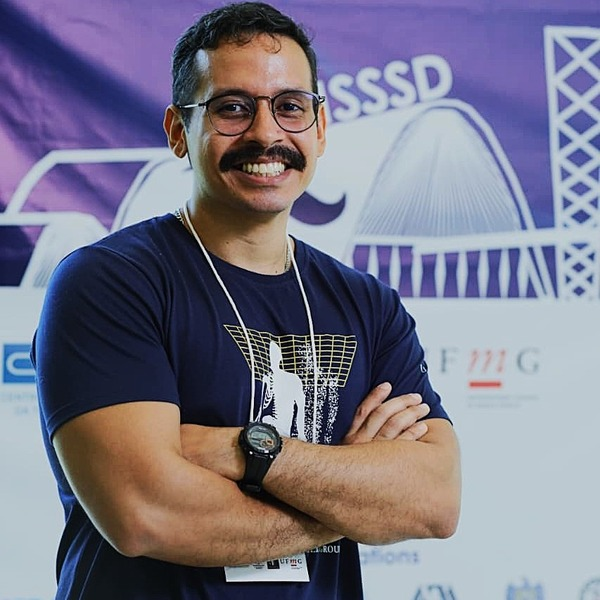
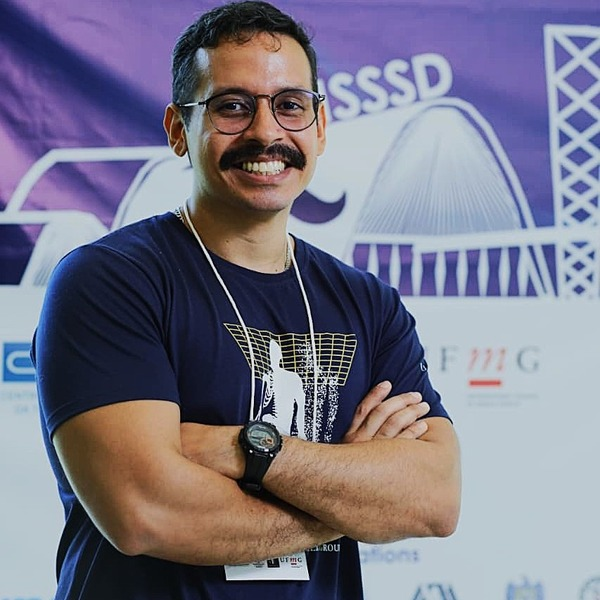
Update team photos, student profiles, and add Internal Dosimetry page with visitor counter

diff --git a/internal-dosimetry.html b/internal-dosimetry.html
@@ -1,0 +1,108 @@
+<!doctype html>
+<html lang="en">
+  <head>
+    <meta charset="utf-8" />
+    <meta name="viewport" content="width=device-width, initial-scale=1" />
+    <title>Internal Dosimetry | MCMEG.UFMG</title>
+    <link rel="icon" href="assets/img/favicon.ico" />
+    <link rel="stylesheet" href="assets/styles.css" />
+  </head>
+  <body>
+    <header>
+      <div class="navbar">
+        <h1>
+          <a class="logo-mark" href="index.html" aria-label="MCMEG home">
+            <img src="assets/img/logo.png" alt="" />
+          </a>
+        </h1>
+        <button class="menu-toggle" type="button" aria-label="Toggle navigation" aria-expanded="false">
+          <span></span>
+          <span></span>
+          <span></span>
+        </button>
+        <nav id="primary-nav" class="nav-links" aria-label="Main navigation">
+          <a href="index.html">Home</a>
+          <a href="about.html">About</a>
+          <a href="researchers.html">Researchers</a>
+          <a href="book.html">Book</a>
+          <a href="course.html">Course</a>
+          <a href="internal-dosimetry.html" aria-current="page">Internal Dosimetry</a>
+          <a href="students.html">Students</a>
+          <a href="contact.html">Contact</a>
+        </nav>
+      </div>
+    </header>
+    <main>
+      <section class="section-inner" style="padding:4rem 1.5rem 3rem;">
+        <h2>Internal Dosimetry — Specific Absorbed Fractions (SAF)</h2>
+        <p>
+          MCMEG presents an open computational repository of Specific Absorbed Fractions (SAFs) generated through
+          Monte Carlo radiation transport simulations. Developed by master's and doctoral researchers at UFMG,
+          this initiative provides validated dosimetric data, organ S-values, and computational phantom simulation
+          results for radiation protection, medical physics, and theranostic applications.
+        </p>
+
+        <div class="grid" style="margin-top:2rem;">
+          <article class="card link-card" data-href="https://mcmegufmg.github.io/internal-dosimetry-mcmeg/" tabindex="0" style="grid-column: span 2; background: var(--bg-accent, #f9f8f3); border-left: 4px solid var(--accent, #a83232);">
+            <h3 style="margin-top:0;">Access the MCMEG Internal Dosimetry Database</h3>
+            <p>
+              Explore our interactive web tool to select anatomical models, source and target organs, particle types,
+              and energy ranges to inspect and download calculated SAFs.
+            </p>
+            <p style="margin-bottom:0;">
+              <a href="https://mcmegufmg.github.io/internal-dosimetry-mcmeg/" target="_blank" rel="noopener" style="font-weight:600; font-size:1.05rem;">
+                Launch Internal Dosimetry Database (mcmegufmg.github.io/internal-dosimetry-mcmeg) →
+              </a>
+            </p>
+          </article>
+        </div>
+
+        <h3 style="margin-top:2.5rem;">Specific Absorbed Fractions (SAFs)</h3>
+        <p>
+          Specific Absorbed Fractions (SAFs) are calculated directly from Monte Carlo simulations. Absorbed doses to target
+          organs and tissues are converted to SAFs by dividing by the initial particle energy (expressed in Joules) and by the
+          number of simulated primary particles.
+        </p>
+        <p>
+          To display SAFs in our interactive portal, select a computational model from the left panel, then choose a source
+          organ, target organ, and particle type (photons, electrons, etc.).
+        </p>
+        <p>
+          SAFs are organized within a relational database as a function of model parameters, source and target regions,
+          particle type, energy spectrum, and total simulated histories. Each source, target, and particle species is identified
+          with a unique ID linking to detailed anatomical model specifications (geometry, volume, and tissue mass). Every SAF dataset is
+          fully traceable with complete provenance metadata, including data provider, Monte Carlo code version (MCNP, PHITS, TOPAS), contributor contact, and publication date.
+        </p>
+
+        <h3 style="margin-top:2.5rem;">Open Science & OpenDose Acknowledgment</h3>
+        <article class="card" style="margin-top:1rem;">
+          <p>
+            This project follows the open-science framework inspired by <strong><a href="https://www.opendose.org/" target="_blank" rel="noopener">OpenDose.org</a></strong>.
+            We express our full credit and recognition to the OpenDose collaboration for developing the pioneer open-access initiative
+            in internal dosimetry.
+          </p>
+          <p>
+            As a complementary community resource, MCMEG has established this repository to make our extensive calculation results,
+            developed across numerous master's and doctoral research projects at UFMG, openly available to the international scientific community.
+          </p>
+          <p style="margin-bottom:0;">
+            <a href="https://www.opendose.org/" target="_blank" rel="noopener">Visit OpenDose.org →</a>
+          </p>
+        </article>
+      </section>
+    </main>
+    <footer>
+      <small>© <span id="year"></span> MCMEG.UFMG — Monte Carlo Modelling Expert Group</small>
+      <div class="footer-links">
+        <a href="https://groups.google.com/g/MCMEG" target="_blank" rel="noopener">Google Group</a>
+        <a href="https://www.instagram.com/mcmeg_radiation/" target="_blank" rel="noopener">Instagram</a>
+        <a href="https://www.youtube.com/@mcmegufmg" target="_blank" rel="noopener">YouTube</a>
+        <a href="https://linktr.ee/MCMEG" target="_blank" rel="noopener">Linktree</a>
+      </div>
+      <div class="footer-counter">
+        <img src="https://visitor-badge.laobi.icu/badge?page_id=mcmegufmg.website&left_color=252019&right_color=a83232" alt="Visitor Counter" title="Visitor Counter" />
+      </div>
+    </footer>
+    <script src="assets/site.js"></script>
+  </body>
+</html>

diff --git a/about.html b/about.html
@@ -26,6 +26,7 @@
           <a href="researchers.html">Researchers</a>
           <a href="book.html">Book</a>
           <a href="course.html">Course</a>
+          <a href="internal-dosimetry.html">Internal Dosimetry</a>
           <a href="students.html">Students</a>
           <a href="contact.html">Contact</a>
         </nav>
@@ -89,21 +90,25 @@
 
         <div class="team-grid">
           <article class="team-card stat-card">
+            <img class="student-avatar" src="assets/img/team/telma-fonseca.jpg" alt="Photo of Telma C. F. Fonseca" style="margin-bottom:0.75rem;" />
             <h3>Telma C. F. Fonseca</h3>
-            <p class="team-role">Adjunct Professor, Post-Graduate Program in Nuclear Sciences and Techniques, UFMG — Belo Horizonte, Brazil</p>
+            <p class="team-role">Associate Professor, Department of Nuclear Engineering, UFMG — Belo Horizonte, Brazil</p>
             <p><a href="https://scholar.google.com/citations?user=fWOPteAAAAAJ&hl=en" target="_blank" rel="noopener">Google Scholar →</a></p>
           </article>
           <article class="team-card stat-card">
+            <img class="student-avatar" src="assets/img/team/bruno-mendes.jpg" alt="Photo of Bruno M. Mendes" style="margin-bottom:0.75rem;" />
             <h3>Bruno M. Mendes</h3>
             <p class="team-role">Researcher, CDTN/CNEN — Belo Horizonte, Brazil</p>
             <p><a href="https://scholar.google.com/citations?hl=en&user=map5MQcAAAAJ&view_op=list_works&sortby=pubdate" target="_blank" rel="noopener">Google Scholar →</a></p>
           </article>
           <article class="team-card stat-card">
+            <img class="student-avatar" src="assets/img/team/jhonny-benavente.jpg" alt="Photo of Jhonny Benavente" style="margin-bottom:0.75rem;" />
             <h3>Jhonny Benavente</h3>
             <p class="team-role">PhD, Department of Nuclear Medicine, National Institute of Neoplastic Diseases — Peru</p>
             <p><a href="https://scholar.google.com.br/citations?hl=pt-BR&user=t42qa0EAAAAJ" target="_blank" rel="noopener">Google Scholar →</a></p>
           </article>
           <article class="team-card stat-card">
+            <img class="student-avatar" src="assets/img/team/lucas-paixao.jpg" alt="Photo of Lucas Paixão" style="margin-bottom:0.75rem;" />
             <h3>Lucas Paixão</h3>
             <p class="team-role">Adjunct Professor, IMA/UFMG — Belo Horizonte, Brazil</p>
             <p><a href="https://scholar.google.com.br/citations?user=YszkMfahKBMC&hl=pt-BR" target="_blank" rel="noopener">Google Scholar →</a></p>
@@ -118,6 +123,9 @@
         <a href="https://www.instagram.com/mcmeg_radiation/" target="_blank" rel="noopener">Instagram</a>
         <a href="https://www.youtube.com/@mcmegufmg" target="_blank" rel="noopener">YouTube</a>
         <a href="https://linktr.ee/MCMEG" target="_blank" rel="noopener">Linktree</a>
+      </div>
+      <div class="footer-counter">
+        <img src="https://visitor-badge.laobi.icu/badge?page_id=mcmegufmg.website&left_color=252019&right_color=a83232" alt="Visitor Counter" title="Visitor Counter" />
       </div>
     </footer>
     <script src="assets/site.js"></script>

diff --git a/index.html b/index.html
@@ -28,6 +28,7 @@
           <a href="researchers.html">Researchers</a>
           <a href="book.html">Book</a>
           <a href="course.html">Course</a>
+          <a href="internal-dosimetry.html">Internal Dosimetry</a>
           <a href="students.html">Students</a>
           <a href="contact.html">Contact</a>
         </nav>
@@ -45,9 +46,10 @@
             Hosted at the Post-Graduate Program in Nuclear Sciences and Techniques, UFMG, Belo Horizonte, Brazil.
           </p>
           <div class="cta-group">
-            <a class="btn btn-primary" href="https://groups.google.com/g/MCMEG" target="_blank" rel="noopener">Join the Group</a>
-            <a class="btn btn-secondary" href="https://www.youtube.com/@mcmegufmg" target="_blank" rel="noopener">Watch on YouTube</a>
-            <a class="btn btn-secondary" href="https://linktr.ee/MCMEG" target="_blank" rel="noopener">All Links</a>
+            <a class="btn btn-primary" href="https://mcmegufmg.github.io/internal-dosimetry-mcmeg/" target="_blank" rel="noopener">Internal Dosimetry Database</a>
+            <a class="btn btn-secondary" href="internal-dosimetry.html">SAF Repository</a>
+            <a class="btn btn-secondary" href="https://groups.google.com/g/MCMEG" target="_blank" rel="noopener">Join the Group</a>
+            <a class="btn btn-secondary" href="https://www.youtube.com/@mcmegufmg" target="_blank" rel="noopener">YouTube</a>
           </div>
         </div>
         <div class="hero-logo">
@@ -57,7 +59,7 @@
 
       <aside class="floating-banner" aria-label="Announcements">
         <p>
-          Free online course available: <a href="course.html">Introduction to the Monte Carlo Method</a>
+          New release: <a href="internal-dosimetry.html">Internal Dosimetry Database (SAF)</a> | Free online course: <a href="course.html">Introduction to the Monte Carlo Method</a>
         </p>
       </aside>
 
@@ -65,6 +67,13 @@
         <div class="section-inner">
           <h3>Explore</h3>
           <div class="grid">
+            <article class="card link-card" data-href="internal-dosimetry.html" tabindex="0">
+              <h4>Internal Dosimetry</h4>
+              <p>
+                Specific Absorbed Fraction (SAF) database generated via Monte Carlo simulations for radiation protection and theranostics.
+              </p>
+              <p><a href="internal-dosimetry.html">Explore database →</a></p>
+            </article>
             <article class="card link-card" data-href="about.html" tabindex="0">
               <h4>About & Team</h4>
               <p>
@@ -100,6 +109,9 @@
         <a href="https://www.instagram.com/mcmeg_radiation/" target="_blank" rel="noopener">Instagram</a>
         <a href="https://www.youtube.com/@mcmegufmg" target="_blank" rel="noopener">YouTube</a>
         <a href="https://linktr.ee/MCMEG" target="_blank" rel="noopener">Linktree</a>
+      </div>
+      <div class="footer-counter">
+        <img src="https://visitor-badge.laobi.icu/badge?page_id=mcmegufmg.website&left_color=252019&right_color=a83232" alt="Visitor Counter" title="Visitor Counter" />
       </div>
     </footer>
 

diff --git a/students.html b/students.html
@@ -26,6 +26,7 @@
           <a href="researchers.html">Researchers</a>
           <a href="book.html">Book</a>
           <a href="course.html">Course</a>
+          <a href="internal-dosimetry.html">Internal Dosimetry</a>
           <a href="students.html" aria-current="page">Students</a>
           <a href="contact.html">Contact</a>
         </nav>
@@ -109,6 +110,23 @@
           </article>
 
           <article class="student-card stat-card">
+            <img class="student-avatar" src="assets/img/students/lucas-beloti.jpg" alt="Photo of Lucas Beloti Silva" />
+            <h3>Lucas Beloti Silva</h3>
+            <p class="student-role">Undergraduate Researcher, Department of Nuclear Engineering, UFMG</p>
+            <p>
+              Holds a Bachelor's degree in Physics from UFMG and is currently an Undergraduate student in
+              Electrical Engineering at UFMG. Works as an undergraduate research assistant in the
+              Department of Nuclear Engineering at UFMG in medical applications. Experienced in voxelizing
+              microscopy images for Monte Carlo simulations, and currently develops models for calculating
+              percentage depth dose (PDD) curves in radiotherapy using mathematical methods based on
+              experimental physics and artificial neural networks.
+            </p>
+            <p>
+              <a href="http://lattes.cnpq.br/6145947442818197" target="_blank" rel="noopener">Lattes</a>
+            </p>
+          </article>
+
+          <article class="student-card stat-card">
             <img class="student-avatar" src="assets/img/students/lucas-araujo.jpg" alt="Photo of Lucas Fabrício de Araújo" />
             <h3>Lucas Fabrício de Araújo</h3>
             <p class="student-role">Postdoctoral Researcher, Department of Nuclear Engineering, UFMG</p>
@@ -170,6 +188,9 @@
         <a href="https://www.instagram.com/mcmeg_radiation/" target="_blank" rel="noopener">Instagram</a>
         <a href="https://www.youtube.com/@mcmegufmg" target="_blank" rel="noopener">YouTube</a>
         <a href="https://linktr.ee/MCMEG" target="_blank" rel="noopener">Linktree</a>
+      </div>
+      <div class="footer-counter">
+        <img src="https://visitor-badge.laobi.icu/badge?page_id=mcmegufmg.website&left_color=252019&right_color=a83232" alt="Visitor Counter" title="Visitor Counter" />
       </div>
     </footer>
     <script src="assets/site.js"></script>

diff --git a/researchers.html b/researchers.html
@@ -26,6 +26,7 @@
           <a href="researchers.html" aria-current="page">Researchers</a>
           <a href="book.html">Book</a>
           <a href="course.html">Course</a>
+          <a href="internal-dosimetry.html">Internal Dosimetry</a>
           <a href="students.html">Students</a>
           <a href="contact.html">Contact</a>
         </nav>
@@ -57,7 +58,7 @@
           </article>
 
           <article class="student-card stat-card">
-            <div class="student-avatar placeholder" aria-hidden="true">BM</div>
+            <img class="student-avatar" src="assets/img/team/bruno-mendes.jpg" alt="Photo of Bruno M. Mendes" />
             <h3>Bruno M. Mendes</h3>
             <p class="student-role">Researcher, CDTN/CNEN — Belo Horizonte, Brazil</p>
             <p>
@@ -70,7 +71,7 @@
           </article>
 
           <article class="student-card stat-card">
-            <div class="student-avatar placeholder" aria-hidden="true">JB</div>
+            <img class="student-avatar" src="assets/img/team/jhonny-benavente.jpg" alt="Photo of Jhonny Benavente" />
             <h3>Jhonny Benavente</h3>
             <p class="student-role">PhD, Department of Nuclear Medicine, National Institute of Neoplastic Diseases — Peru</p>
             <p>
@@ -82,7 +83,7 @@
           </article>
 
           <article class="student-card stat-card">
-            <div class="student-avatar placeholder" aria-hidden="true">LP</div>
+            <img class="student-avatar" src="assets/img/team/lucas-paixao.jpg" alt="Photo of Lucas Paixão" />
             <h3>Lucas Paixão</h3>
             <p class="student-role">Adjunct Professor, IMA/UFMG — Belo Horizonte, Brazil</p>
             <p>
@@ -102,6 +103,9 @@
         <a href="https://www.instagram.com/mcmeg_radiation/" target="_blank" rel="noopener">Instagram</a>
         <a href="https://www.youtube.com/@mcmegufmg" target="_blank" rel="noopener">YouTube</a>
         <a href="https://linktr.ee/MCMEG" target="_blank" rel="noopener">Linktree</a>
+      </div>
+      <div class="footer-counter">
+        <img src="https://visitor-badge.laobi.icu/badge?page_id=mcmegufmg.website&left_color=252019&right_color=a83232" alt="Visitor Counter" title="Visitor Counter" />
       </div>
     </footer>
     <script src="assets/site.js"></script>

diff --git a/book.html b/book.html
@@ -26,6 +26,7 @@
           <a href="researchers.html">Researchers</a>
           <a href="book.html" aria-current="page">Book</a>
           <a href="course.html">Course</a>
+          <a href="internal-dosimetry.html">Internal Dosimetry</a>
           <a href="students.html">Students</a>
           <a href="contact.html">Contact</a>
         </nav>
@@ -80,6 +81,9 @@
         <a href="https://www.instagram.com/mcmeg_radiation/" target="_blank" rel="noopener">Instagram</a>
         <a href="https://www.youtube.com/@mcmegufmg" target="_blank" rel="noopener">YouTube</a>
         <a href="https://linktr.ee/MCMEG" target="_blank" rel="noopener">Linktree</a>
+      </div>
+      <div class="footer-counter">
+        <img src="https://visitor-badge.laobi.icu/badge?page_id=mcmegufmg.website&left_color=252019&right_color=a83232" alt="Visitor Counter" title="Visitor Counter" />
       </div>
     </footer>
     <script src="assets/site.js"></script>

diff --git a/contact.html b/contact.html
@@ -26,6 +26,7 @@
           <a href="researchers.html">Researchers</a>
           <a href="book.html">Book</a>
           <a href="course.html">Course</a>
+          <a href="internal-dosimetry.html">Internal Dosimetry</a>
           <a href="students.html">Students</a>
           <a href="contact.html" aria-current="page">Contact</a>
         </nav>
@@ -86,6 +87,9 @@
         <a href="https://www.instagram.com/mcmeg_radiation/" target="_blank" rel="noopener">Instagram</a>
         <a href="https://www.youtube.com/@mcmegufmg" target="_blank" rel="noopener">YouTube</a>
         <a href="https://linktr.ee/MCMEG" target="_blank" rel="noopener">Linktree</a>
+      </div>
+      <div class="footer-counter">
+        <img src="https://visitor-badge.laobi.icu/badge?page_id=mcmegufmg.website&left_color=252019&right_color=a83232" alt="Visitor Counter" title="Visitor Counter" />
       </div>
     </footer>
     <script src="assets/site.js"></script>

diff --git a/course.html b/course.html
@@ -26,6 +26,7 @@
           <a href="researchers.html">Researchers</a>
           <a href="book.html">Book</a>
           <a href="course.html" aria-current="page">Course</a>
+          <a href="internal-dosimetry.html">Internal Dosimetry</a>
           <a href="students.html">Students</a>
           <a href="contact.html">Contact</a>
         </nav>
@@ -83,6 +84,9 @@
         <a href="https://www.instagram.com/mcmeg_radiation/" target="_blank" rel="noopener">Instagram</a>
         <a href="https://www.youtube.com/@mcmegufmg" target="_blank" rel="noopener">YouTube</a>
         <a href="https://linktr.ee/MCMEG" target="_blank" rel="noopener">Linktree</a>
+      </div>
+      <div class="footer-counter">
+        <img src="https://visitor-badge.laobi.icu/badge?page_id=mcmegufmg.website&left_color=252019&right_color=a83232" alt="Visitor Counter" title="Visitor Counter" />
       </div>
     </footer>
     <script src="assets/site.js"></script>

diff --git a/assets/styles.css b/assets/styles.css
@@ -460,6 +460,18 @@ footer .footer-links {
   flex-wrap: wrap;
 }
 
+footer .footer-counter {
+  margin-top: 0.85rem;
+  display: flex;
+  justify-content: center;
+  align-items: center;
+}
+
+footer .footer-counter img {
+  height: 20px;
+  border-radius: 3px;
+}
+
 @media (max-width: 640px) {
   .nav-links {
     flex-wrap: wrap;
